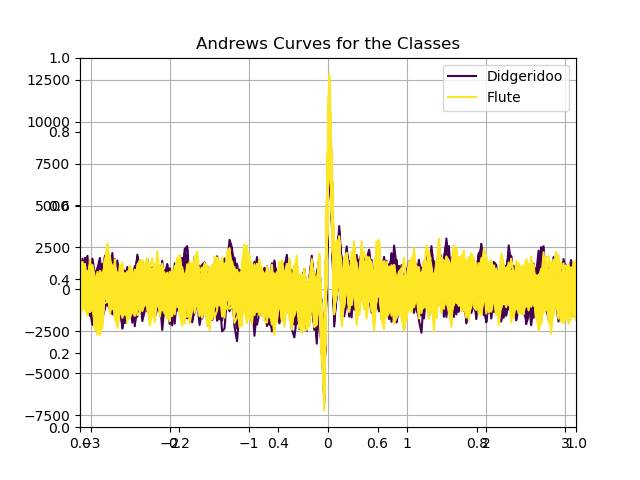
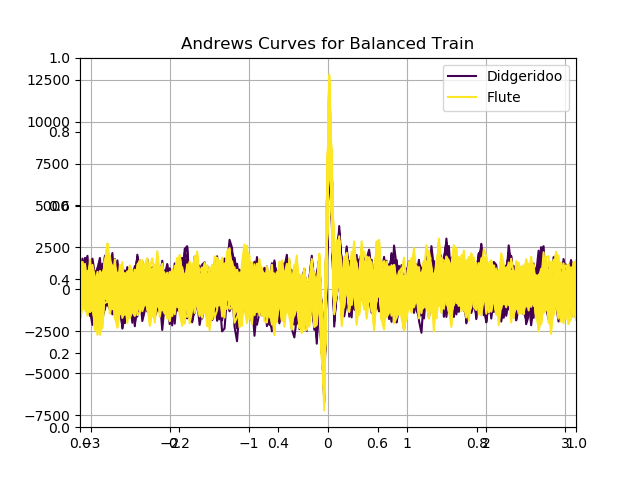
Update feature charactarization to have more meaningful plot titles

Changed region(s): [[0.2812, 0.0625, 0.75, 0.125]]

diff --git a/src/dataset_characterization/feature_charactarization.py b/src/dataset_characterization/feature_charactarization.py
@@ -5,7 +5,7 @@ Authors: Peggy Anderson & Kyle Seidenthal
 
 Date: 15-02-2019
 
-Last Modified: Sat 16 Feb 2019 12:14:56 AM CST
+Last Modified: Sat 16 Feb 2019 10:44:30 AM CST
 
 Description: A script to calculate various properties about the 128-dimensional feature vectors
 
@@ -63,7 +63,7 @@ def process_tensor_file(tfrecord):
                                
     return feature_vectors
 
-def process(data_dir, outname):
+def process(data_dir, outname, title):
     """
     Process the tensorflow records in data_dir and compute statistics about the features contained in them
     
@@ -119,7 +119,11 @@ def process(data_dir, outname):
                 
 
     plt.legend(loc="upper right")
-    plt.title("Avg. Flute vs Didgeridoo Feature Vector")
+    if title is None:
+        plt.title("Avg. Flute vs Didgeridoo Feature Vector")
+    else:
+        plt.title("Avg. " + title + " Flute vs Didgeridoo Feature Vector")
+    
     plt.xlabel("Feature Number")
     plt.ylabel("Value")
     plt.savefig(os.path.join(outname, 'avg_feature_vector.png'))
@@ -127,7 +131,11 @@ def process(data_dir, outname):
     
     # Andrews curves help visualize high dimensional features
     plt.figure()
-    plt.title("Andrews Curves for the Classes") 
+    if title is None:
+        plt.title("Andews Curves")
+    else:
+        plt.title("Andrews Curves for " + title) 
+
     andrews_curves(master_dataframe, 'class', colormap='viridis')
     plt.savefig(os.path.join(outname, 'andrews_curves.png'))
     #plt.show()
@@ -161,7 +169,12 @@ if __name__ == "__main__":
     
     parser.add_argument('data_dir', help="The path to the directory containing the data set.")
     parser.add_argument('outname', help="The path of the folder to store the cleaned data in")
+    parser.add_argument('-data_title', help="The name to use in figure titles")
     args = parser.parse_args()
 
-    process(args.data_dir, args.outname) 
+    title = None
+    if args.data_title is not None:
+        title = args.data_title
+
+    process(args.data_dir, args.outname, title) 
 
